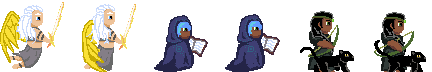
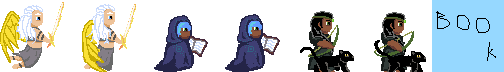
Changed talkchar to use quads instead of anims

diff --git a/assets/main.py b/assets/main.py
@@ -1,18 +1,10 @@
 from PIL import Image, ImageDraw
 import os
 
-f, e = os.path.splitext('vgo_logo.png') #<name><.ext>
+orig = Image.open('charsheetOriginal.png')
+pod = Image.open('bookpodium.png')
+augmented = Image.new('RGBA', (504, 72))
+augmented.paste(orig, (0, 0))
+augmented.paste(pod, (432, 0))
 
-im = Image.open('vgo_logo.png')
-im = im.convert('RGBA')
-pixels = im.getdata()
-
-newPixels = []
-for p in pixels:
-  if p[3] > 0:
-    newPixels.append((0, 0, 0, 255))
-  else:
-    newPixels.append(p)
-
-im.putdata(newPixels)
-im.save(f + '_clear.png', 'PNG')
+augmented.save('charsheet.png', 'PNG')
